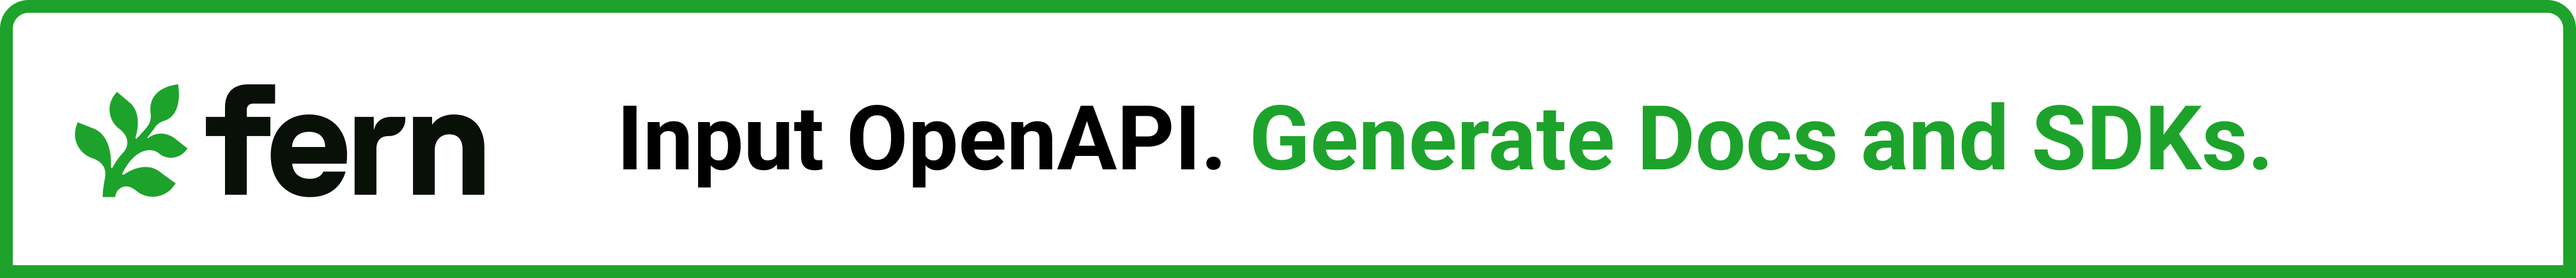
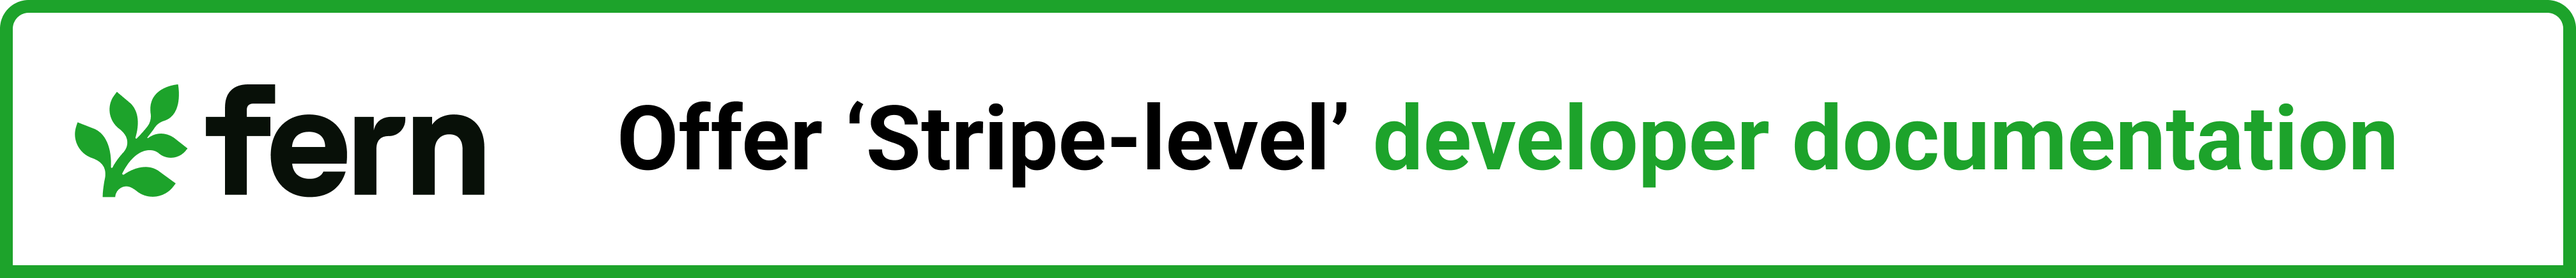
Update Fern

Changed region(s): [[0.2171, 0.3586, 0.9305, 0.6874]]

diff --git a/README.md b/README.md
@@ -1,7 +1,8 @@
 # Awesome React [![Awesome](https://cdn.rawgit.com/sindresorhus/awesome/d7305f38d29fed78fa85652e3a63e154dd8e8829/media/badge.svg)](https://github.com/sindresorhus/awesome)
 
 [![Sponsor](./media/fern.png)](https://form.typeform.com/to/xlwIBLD5)
-Input an OpenAPI spec and generate developer documentation and SDKs with our sponsor [Fern](https://form.typeform.com/to/xlwIBLD5). Request a preview [here](https://form.typeform.com/to/xlwIBLD5).
+
+Offer API docs that look as good as Stripe's using our sponsor [Fern](https://form.typeform.com/to/xlwIBLD5). Request a preview of your docs on Fern [here](https://form.typeform.com/to/xlwIBLD5).
 
 ---
 
